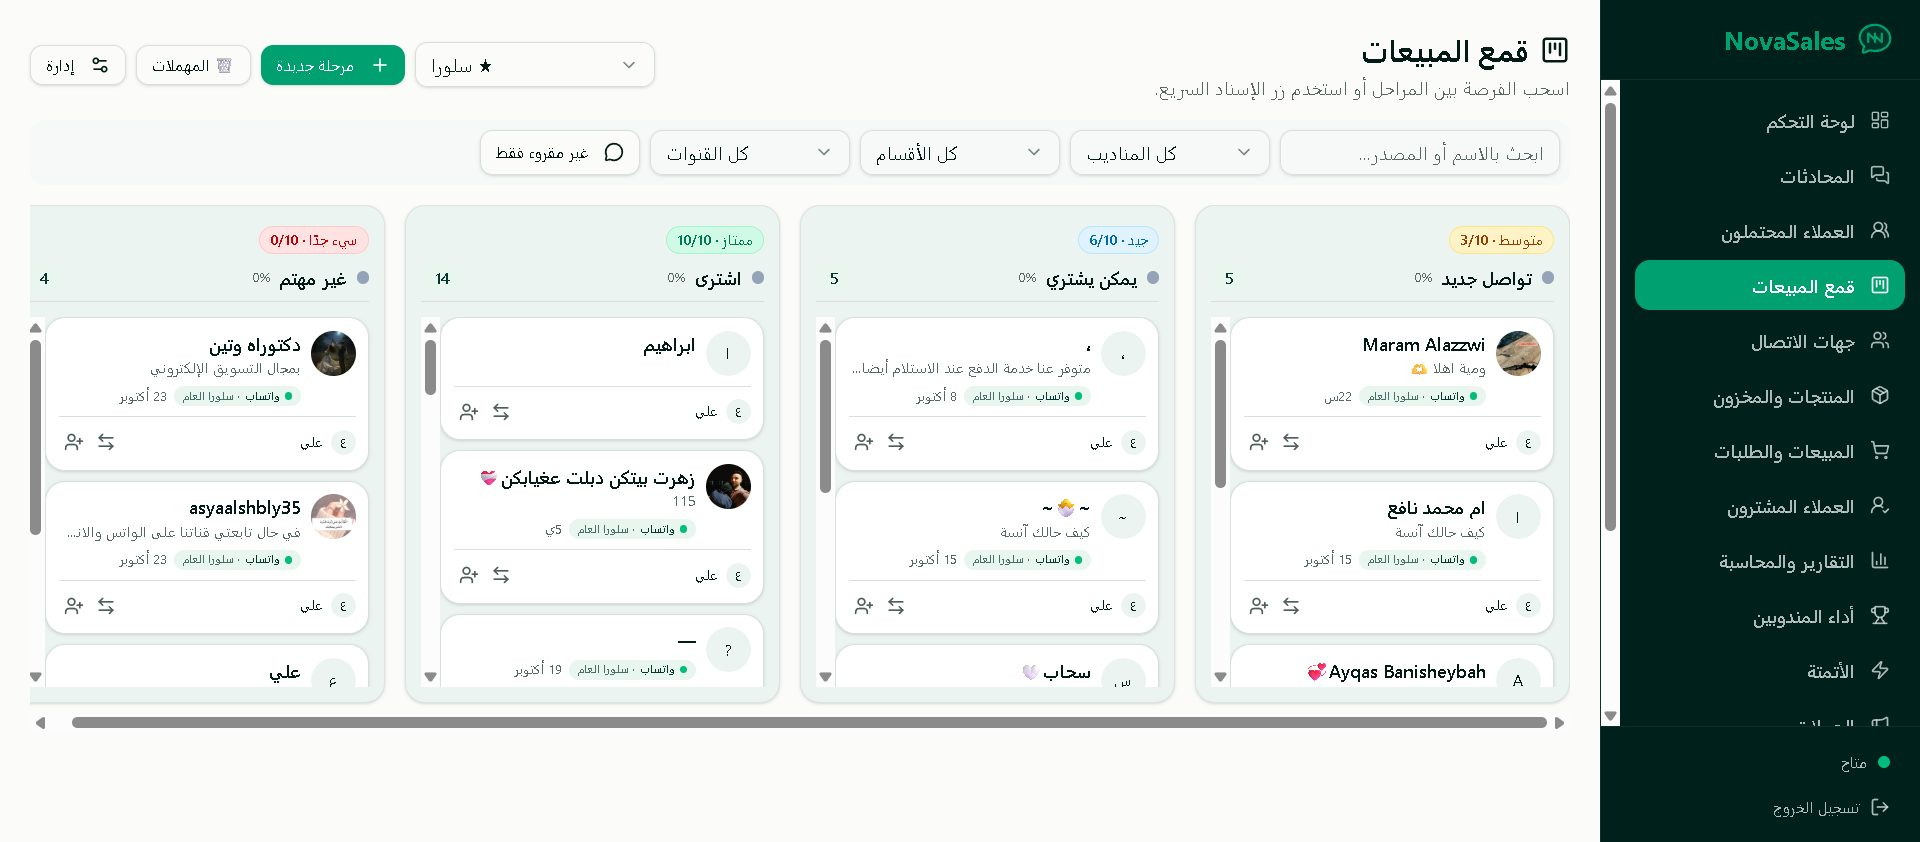
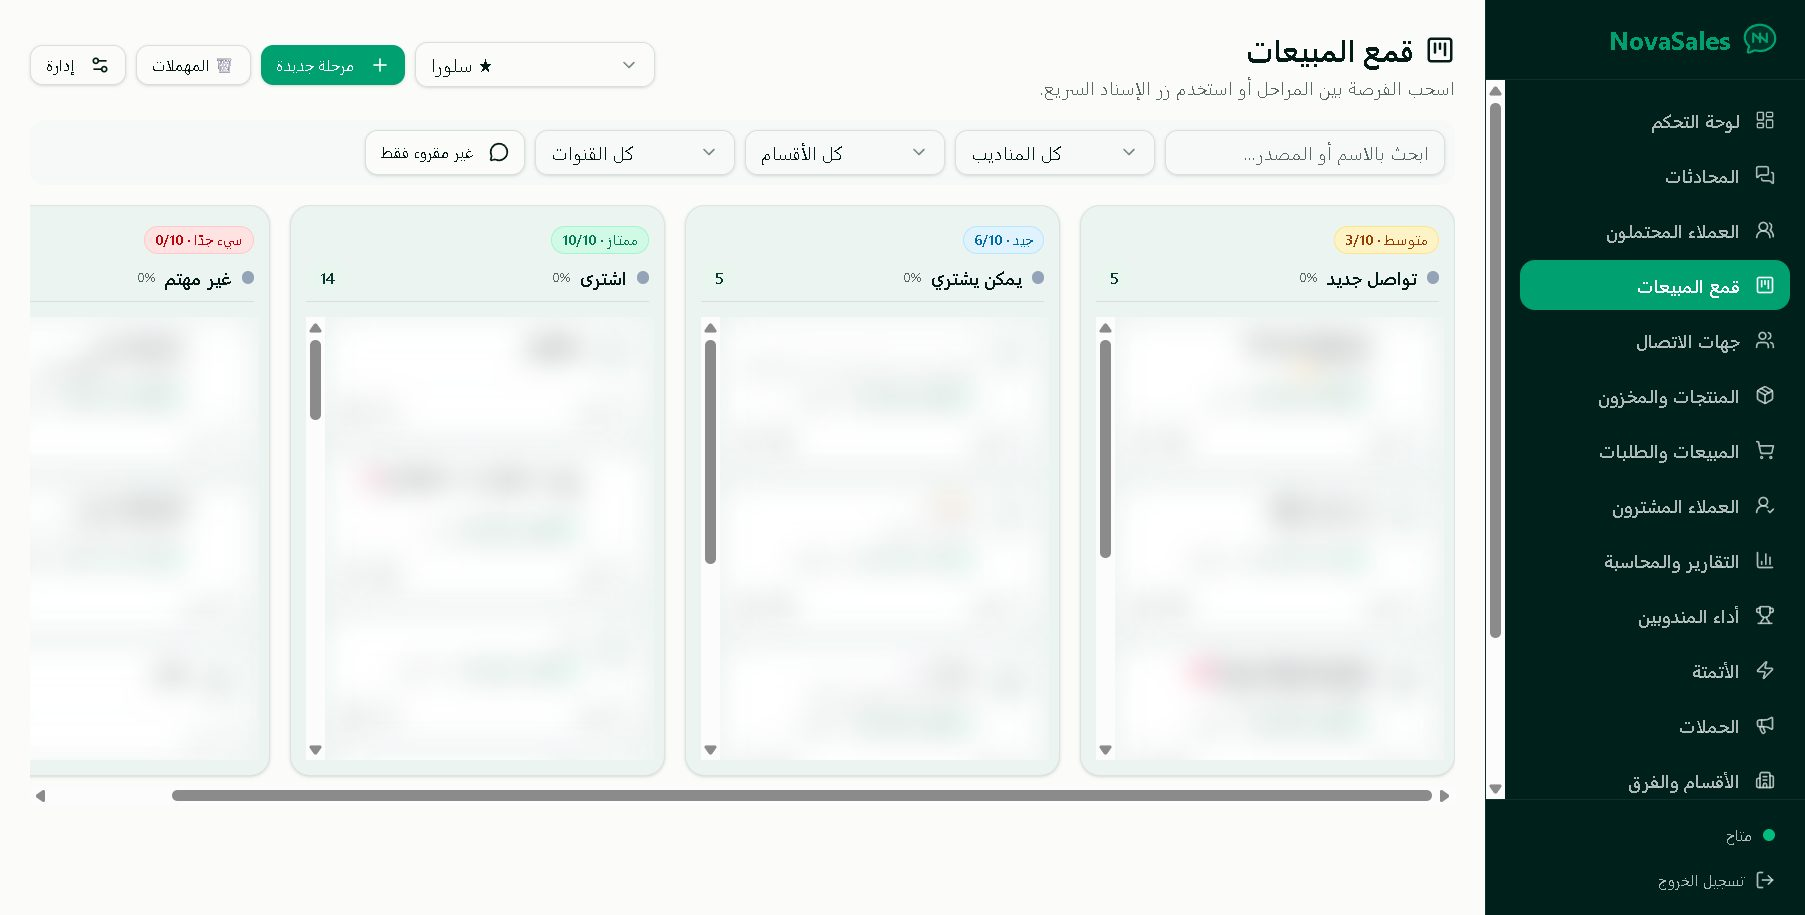
Projects: blur customer data in NovaSales screenshot; drop duplicate hero screenshots

diff --git a/src/data/projects.ts b/src/data/projects.ts
@@ -150,7 +150,6 @@ const BUILT_IN: Record<string, Partial<Record<"en" | "tr", { title?: string; cat
  */
 const GALLERY: Record<string, string[]> = {
     "https://clinova.novanoai.online/": [
-        "/images/projects/clinova-1.jpeg",
         "/images/projects/clinova-2.jpeg",
         "/images/projects/clinova-3.jpeg",
         "/images/projects/clinova-4.jpeg",
@@ -166,20 +165,21 @@ const GALLERY: Record<string, string[]> = {
         "/images/projects/university-3.jpeg",
     ],
     "https://wird-platform.vercel.app/": [
-        "/images/projects/wird-1.jpeg",
         "/images/projects/wird-2.jpeg",
         "/images/projects/wird-3.jpeg",
     ],
     "https://rpanyon.com/": [
-        "/images/projects/rabbanioon-1.jpeg",
         "/images/projects/rabbanioon-2.jpeg",
         "/images/projects/rabbanioon-3.jpeg",
     ],
 };
 
+/* covers that are only a sign-in screen: kept, but shown last */
+const WEAK_COVERS = new Set(["/images/projects/novasales.png", "/images/projects/university-system.png"]);
+
 /*
- * Order: screenshots uploaded in /admin, then the bundled ones, then the older bundled cover
- * (often just a sign-in screen), so the first thing a visitor sees is the real product.
+ * Order: screenshots uploaded in /admin, the bundled cover, the bundled gallery, and last any
+ * cover that is just a sign-in screen, so the first thing a visitor sees is the real product.
  */
 export function withGallery(p: Project): Project {
     const extra = GALLERY[p.link];
@@ -187,7 +187,15 @@ export function withGallery(p: Project): Project {
     const bundled = (src: string) => src.startsWith("/images/projects/");
     const uploaded = p.images.filter((src) => !bundled(src));
     const older = p.images.filter((src) => bundled(src) && !extra.includes(src));
-    return { ...p, images: [...uploaded, ...extra, ...older] };
+    return {
+        ...p,
+        images: [
+            ...uploaded,
+            ...older.filter((src) => !WEAK_COVERS.has(src)),
+            ...extra,
+            ...older.filter((src) => WEAK_COVERS.has(src)),
+        ],
+    };
 }
 
 export interface ProjectText {
